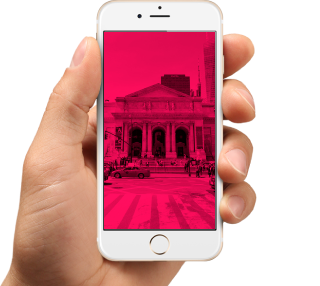
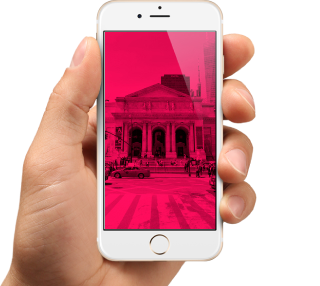
Адаптивная графика гл страницы

Changed region(s): [[0.5, 0.1119, 0.6875, 0.3916]]

diff --git a/source/index.html b/source/index.html
@@ -136,7 +136,7 @@
                 <p class="info__description">
                   Сделайте снимок и украсьте его
                   смайликом или текстовой подписью,
-                  чтобы усилить эффект
+                  чтобы усилить&nbsp;эффект
                 </p>
               </li>
               <li class="info__item">
@@ -151,9 +151,18 @@
               </li>
             </ul>
             <div class="info__phones">
-              <img class="info__phone" src="img/iphone-screen-1.png" width="157" height="320" alt="Смартфон-чб">
-              <img class="info__phone" src="img/iphone-screen-2.png" width="157" height="320" alt="Смартфон-розовый">
-              <img class="info__phone--mobile" src="img/iphone-screen-3.png" width="157" height="320" alt="Смартфон-смайлик">
+              <picture>
+                <source>
+                <img class="info__phone" src="img/iphone-screen-1-desktop.png" srcset="img/iphone-screen-1-desktop@2x.png 2x" width="186" height="382" alt="Смартфон-чб">
+              </picture>
+              <picture>
+                <img class="info__phone" src="img/iphone-screen-2-desktop.png" srcset="img/iphone-screen-2-desktop@2x.png 2x" width="186" height="382" alt="Смартфон-розовый">
+              </picture>
+              <picture>
+                <source media="(min-width: 960px)" srcset="img/iphone-screen-3-desktop.png 1x, img/iphone-screen-3-desktop@2x.png 2x">
+                <source media="(min-width: 660px)" srcset="img/iphone-screen-3-tablet.png 1x, img/iphone-screen-3-tablet@2x.png 2x">
+                <img class="info__phone--last" src="img/iphone-screen-3.png" srcset="img/iphone-screen-3@2x.png 2x" width="157" height="320" alt="Смартфон-смайлик">
+              </picture>
             </div>
           </div>
         </div>
@@ -162,7 +171,10 @@
       <section class="effect">
         <h2 class="visually-hidden">Эффект приложения</h2>
         <div class="effect__wrapper">
-          <img src="img/24timer.png" width="238" height="276" alt="24 часа">
+          <picture>
+            <source media="(min-width: 960px)" srcset="img/24timer-desktop.png 1x, img/timer24-desktop@2x.png 2x">
+            <img class="effect__timer" src="img/24timer.png" srcset="img/24timer@2x.png 2x" width="238" height="276" alt="24 часа">
+          </picture>
           <div class="effect__fact">
             <h3 class="effect__title">
               Эффект на 24 часа
@@ -399,9 +411,9 @@
       </section>
 
       <div class="map">
-        <img class="map-mobile" src="img/map-mobile.jpg" width="320" height="200" alt="Карта">
-        <img class="map-tablet" src="img/map-tablet.jpg" width="660" height="374" alt="Карта">
-        <img class="map-desktop" src="img/map-desktop.jpg" width="1200" height="502" alt="Карта">
+        <img class="map-mobile" src="img/map-mobile.jpg" srcset="img/map-mobile@2x.jpg 2x" width="320" height="200" alt="Карта">
+        <img class="map-tablet" src="img/map-tablet.jpg" srcset="img/map-tablet@2x.jpg 2x" width="660" height="374" alt="Карта">
+        <img class="map-desktop" src="img/map-desktop.jpg" srcset="img/map-desktop@2x.jpg 2x" width="1200" height="502" alt="Карта">
       </div>
 
     </main>
@@ -409,13 +421,25 @@
     <footer class="footer">
       <div class="footer__wrapper">
         <div class="footer__logo">
-          <svg width="145" height="40" viewBox="0 0 145 40" fill="none" xmlns="http://www.w3.org/2000/svg">
-              <path d="M71.005 18.5486C71.0049 18.2125 71.1358 17.8898 71.3697 17.6494C71.6037 17.409 71.922 17.2701 72.2568 17.2623H79.39C84.4469 17.2623 87.7751 19.9645 87.7751 24.3918V24.4516C87.7751 29.2977 83.7415 31.8105 78.9727 31.8105H73.5384V38.611C73.5539 38.7874 73.5328 38.9651 73.4762 39.1329C73.4196 39.3006 73.3289 39.4547 73.2097 39.5854C73.0906 39.716 72.9457 39.8204 72.7842 39.8918C72.6227 39.9631 72.4481 40 72.2717 40C72.0952 40 71.9207 39.9631 71.7592 39.8918C71.5977 39.8204 71.4527 39.716 71.3336 39.5854C71.2145 39.4547 71.1237 39.3006 71.0671 39.1329C71.0106 38.9651 70.9894 38.7874 71.005 38.611V18.5486ZM79.0721 29.5171C82.7778 29.5171 85.2119 27.5228 85.2119 24.5314V24.4716C85.2119 21.2608 82.8175 19.5956 79.2509 19.5956H73.588V29.4772L79.0721 29.5171Z" fill="#283645"/>
-              <path d="M92.5935 18.389C92.5779 18.2126 92.5991 18.0349 92.6556 17.8671C92.7122 17.6994 92.803 17.5452 92.9221 17.4146C93.0412 17.2839 93.1862 17.1796 93.3477 17.1082C93.5092 17.0369 93.6837 17 93.8602 17C94.0366 17 94.2112 17.0369 94.3727 17.1082C94.5342 17.1796 94.6791 17.2839 94.7982 17.4146C94.9174 17.5452 95.0081 17.6994 95.0647 17.8671C95.1213 18.0349 95.1425 18.2126 95.1269 18.389V38.611C95.1425 38.7874 95.1213 38.9651 95.0647 39.1329C95.0081 39.3006 94.9174 39.4548 94.7982 39.5854C94.6791 39.7161 94.5342 39.8204 94.3727 39.8918C94.2112 39.9631 94.0366 40 93.8602 40C93.6837 40 93.5092 39.9631 93.3477 39.8918C93.1862 39.8204 93.0412 39.7161 92.9221 39.5854C92.803 39.4548 92.7122 39.3006 92.6556 39.1329C92.5991 38.9651 92.5779 38.7874 92.5935 38.611V18.389Z" fill="#283645"/>
-              <path d="M101.674 18.419C101.682 18.0891 101.816 17.775 102.05 17.5426C102.283 17.3102 102.597 17.1776 102.926 17.1725H103.273C103.532 17.1778 103.784 17.2482 104.008 17.3771C104.232 17.5061 104.42 17.6894 104.555 17.9104L118.156 35.3104V18.3591C118.156 18.0312 118.286 17.7167 118.517 17.4848C118.748 17.2529 119.061 17.1227 119.388 17.1227C119.715 17.1227 120.028 17.2529 120.259 17.4848C120.49 17.7167 120.62 18.0312 120.62 18.3591V38.6508C120.625 38.8051 120.599 38.9589 120.544 39.1028C120.488 39.2467 120.403 39.3777 120.296 39.4878C120.188 39.5979 120.059 39.6848 119.916 39.7432C119.774 39.8016 119.621 39.8303 119.467 39.8275H119.338C119.074 39.8092 118.818 39.7294 118.591 39.5944C118.363 39.4593 118.17 39.2728 118.027 39.0497L104.118 21.2408V38.6508C104.116 38.9722 103.991 39.2805 103.769 39.5124C103.547 39.7442 103.246 39.882 102.926 39.8973C102.601 39.892 102.291 39.7581 102.064 39.5246C101.837 39.2911 101.711 38.9771 101.714 38.6508V18.419H101.674Z" fill="#283645"/>
-              <path d="M126.938 18.389C126.923 18.2126 126.944 18.0349 127.001 17.8671C127.057 17.6994 127.148 17.5452 127.267 17.4146C127.386 17.2839 127.531 17.1796 127.693 17.1082C127.854 17.0369 128.029 17 128.205 17C128.382 17 128.556 17.0369 128.718 17.1082C128.879 17.1796 129.024 17.2839 129.143 17.4146C129.262 17.5452 129.353 17.6994 129.41 17.8671C129.466 18.0349 129.487 18.2126 129.472 18.389V30.6837L142.228 17.5514C142.49 17.2797 142.845 17.1191 143.222 17.1027C143.547 17.1155 143.855 17.2528 144.082 17.4865C144.309 17.7202 144.439 18.0325 144.444 18.3591C144.437 18.529 144.396 18.6957 144.325 18.8498C144.253 19.0038 144.152 19.1421 144.026 19.2565L136.078 27.1539L144.652 37.6836C144.876 37.9441 145 38.2768 145 38.6209C144.996 38.7933 144.958 38.9633 144.889 39.121C144.819 39.2786 144.719 39.4209 144.594 39.5395C144.47 39.6582 144.323 39.7509 144.162 39.8123C144.002 39.8737 143.831 39.9026 143.659 39.8973C143.459 39.8891 143.264 39.8322 143.091 39.7314C142.918 39.6306 142.772 39.4891 142.665 39.3189L134.3 28.859L129.472 33.7051V38.591C129.472 38.7573 129.439 38.922 129.376 39.0756C129.312 39.2293 129.219 39.3689 129.102 39.4865C128.985 39.6041 128.846 39.6973 128.693 39.761C128.54 39.8246 128.376 39.8574 128.21 39.8574C128.044 39.8574 127.88 39.8246 127.727 39.761C127.574 39.6973 127.435 39.6041 127.318 39.4865C127.201 39.3689 127.108 39.2293 127.044 39.0756C126.981 38.922 126.948 38.7573 126.948 38.591V18.389H126.938Z" fill="#283645"/>
-              <path fill-rule="evenodd" clip-rule="evenodd" d="M53.8917 6.58616L58.9302 27.7312C59.0013 27.9491 59.0184 28.1815 58.98 28.4078C58.9417 28.6341 58.849 28.8472 58.7102 29.0284C58.5715 29.2096 58.3909 29.3532 58.1845 29.4465C57.978 29.5398 57.7522 29.58 57.5268 29.5635H53.5201C52.8298 35.3747 47.9494 39.8784 42.0315 39.8784C36.1136 39.8784 31.2332 35.3747 30.543 29.5635H28.5778C27.8869 35.442 22.9527 40 16.9685 40C10.9742 40 6.0335 35.4266 5.35571 29.5337H1.45014C1.22961 29.5445 1.00974 29.5014 0.808914 29.4082C0.608085 29.315 0.432119 29.1743 0.295711 28.9979C0.159304 28.8214 0.0664152 28.6144 0.0248022 28.3941C-0.0168108 28.1737 -0.00593994 27.9464 0.0565069 27.7312L5.10477 6.58616C5.45562 4.25872 7.63865 0 13.4861 0C13.8738 0 14.2456 0.156518 14.5197 0.435122C14.7939 0.713727 14.9479 1.0916 14.9479 1.4856C14.9479 1.87961 14.7939 2.25748 14.5197 2.53608C14.2456 2.81468 13.8738 2.9712 13.4861 2.9712C8.7789 2.9712 8.04797 6.6654 7.9895 7.07146L3.3408 26.6022H5.37467C6.12089 20.7847 11.0272 16.2918 16.9685 16.2918C22.9066 16.2918 27.8107 20.7798 28.5611 26.5926L30.5587 26.6017C31.3043 20.8518 36.1567 16.4134 42.0315 16.4134C47.9178 16.4134 52.7776 20.8691 53.5086 26.6353V26.5824H55.6459L51.007 7.07146C50.9387 6.6654 50.237 2.9712 45.5104 2.9712C45.1227 2.9712 44.7509 2.81468 44.4767 2.53608C44.2026 2.25748 44.0485 1.87961 44.0485 1.4856C44.0485 1.0916 44.2026 0.713727 44.4767 0.435122C44.7509 0.156518 45.1227 0 45.5104 0C51.3578 0 53.5408 4.25872 53.8917 6.58616ZM25.6722 29.5635C25.7448 29.1018 25.7825 28.6283 25.7825 28.1459C25.7825 27.6164 25.7371 27.0977 25.65 26.5935C24.9252 22.3982 21.3141 19.2097 16.9685 19.2097C12.6203 19.2097 9.00753 22.402 8.28571 26.601C8.19945 27.1028 8.15447 27.619 8.15447 28.1459C8.15447 28.6205 8.19096 29.0864 8.26125 29.541C8.92191 33.8136 12.5687 37.0821 16.9685 37.0821C21.3605 37.0821 25.0023 33.8251 25.6722 29.5635ZM50.6138 29.5635C50.6874 29.102 50.7256 28.6285 50.7256 28.1459C50.7256 23.2777 46.8331 19.3313 42.0315 19.3313C37.2299 19.3313 33.3374 23.2777 33.3374 28.1459C33.3374 28.6285 33.3756 29.102 33.4492 29.5635C34.118 33.7577 37.7058 36.9605 42.0315 36.9605C46.3572 36.9605 49.945 33.7577 50.6138 29.5635Z" fill="#D22856"/>
-            </svg>
+          <svg class="footer__logo--non-desktop" width="145" height="40" viewBox="0 0 145 40" fill="none" xmlns="http://www.w3.org/2000/svg">
+            <path d="M71.005 18.5486C71.0049 18.2125 71.1358 17.8898 71.3697 17.6494C71.6037 17.409 71.922 17.2701 72.2568 17.2623H79.39C84.4469 17.2623 87.7751 19.9645 87.7751 24.3918V24.4516C87.7751 29.2977 83.7415 31.8105 78.9727 31.8105H73.5384V38.611C73.5539 38.7874 73.5328 38.9651 73.4762 39.1329C73.4196 39.3006 73.3289 39.4547 73.2097 39.5854C73.0906 39.716 72.9457 39.8204 72.7842 39.8918C72.6227 39.9631 72.4481 40 72.2717 40C72.0952 40 71.9207 39.9631 71.7592 39.8918C71.5977 39.8204 71.4527 39.716 71.3336 39.5854C71.2145 39.4547 71.1237 39.3006 71.0671 39.1329C71.0106 38.9651 70.9894 38.7874 71.005 38.611V18.5486ZM79.0721 29.5171C82.7778 29.5171 85.2119 27.5228 85.2119 24.5314V24.4716C85.2119 21.2608 82.8175 19.5956 79.2509 19.5956H73.588V29.4772L79.0721 29.5171Z" fill="#283645"/>
+            <path d="M92.5935 18.389C92.5779 18.2126 92.5991 18.0349 92.6556 17.8671C92.7122 17.6994 92.803 17.5452 92.9221 17.4146C93.0412 17.2839 93.1862 17.1796 93.3477 17.1082C93.5092 17.0369 93.6837 17 93.8602 17C94.0366 17 94.2112 17.0369 94.3727 17.1082C94.5342 17.1796 94.6791 17.2839 94.7982 17.4146C94.9174 17.5452 95.0081 17.6994 95.0647 17.8671C95.1213 18.0349 95.1425 18.2126 95.1269 18.389V38.611C95.1425 38.7874 95.1213 38.9651 95.0647 39.1329C95.0081 39.3006 94.9174 39.4548 94.7982 39.5854C94.6791 39.7161 94.5342 39.8204 94.3727 39.8918C94.2112 39.9631 94.0366 40 93.8602 40C93.6837 40 93.5092 39.9631 93.3477 39.8918C93.1862 39.8204 93.0412 39.7161 92.9221 39.5854C92.803 39.4548 92.7122 39.3006 92.6556 39.1329C92.5991 38.9651 92.5779 38.7874 92.5935 38.611V18.389Z" fill="#283645"/>
+            <path d="M101.674 18.419C101.682 18.0891 101.816 17.775 102.05 17.5426C102.283 17.3102 102.597 17.1776 102.926 17.1725H103.273C103.532 17.1778 103.784 17.2482 104.008 17.3771C104.232 17.5061 104.42 17.6894 104.555 17.9104L118.156 35.3104V18.3591C118.156 18.0312 118.286 17.7167 118.517 17.4848C118.748 17.2529 119.061 17.1227 119.388 17.1227C119.715 17.1227 120.028 17.2529 120.259 17.4848C120.49 17.7167 120.62 18.0312 120.62 18.3591V38.6508C120.625 38.8051 120.599 38.9589 120.544 39.1028C120.488 39.2467 120.403 39.3777 120.296 39.4878C120.188 39.5979 120.059 39.6848 119.916 39.7432C119.774 39.8016 119.621 39.8303 119.467 39.8275H119.338C119.074 39.8092 118.818 39.7294 118.591 39.5944C118.363 39.4593 118.17 39.2728 118.027 39.0497L104.118 21.2408V38.6508C104.116 38.9722 103.991 39.2805 103.769 39.5124C103.547 39.7442 103.246 39.882 102.926 39.8973C102.601 39.892 102.291 39.7581 102.064 39.5246C101.837 39.2911 101.711 38.9771 101.714 38.6508V18.419H101.674Z" fill="#283645"/>
+            <path d="M126.938 18.389C126.923 18.2126 126.944 18.0349 127.001 17.8671C127.057 17.6994 127.148 17.5452 127.267 17.4146C127.386 17.2839 127.531 17.1796 127.693 17.1082C127.854 17.0369 128.029 17 128.205 17C128.382 17 128.556 17.0369 128.718 17.1082C128.879 17.1796 129.024 17.2839 129.143 17.4146C129.262 17.5452 129.353 17.6994 129.41 17.8671C129.466 18.0349 129.487 18.2126 129.472 18.389V30.6837L142.228 17.5514C142.49 17.2797 142.845 17.1191 143.222 17.1027C143.547 17.1155 143.855 17.2528 144.082 17.4865C144.309 17.7202 144.439 18.0325 144.444 18.3591C144.437 18.529 144.396 18.6957 144.325 18.8498C144.253 19.0038 144.152 19.1421 144.026 19.2565L136.078 27.1539L144.652 37.6836C144.876 37.9441 145 38.2768 145 38.6209C144.996 38.7933 144.958 38.9633 144.889 39.121C144.819 39.2786 144.719 39.4209 144.594 39.5395C144.47 39.6582 144.323 39.7509 144.162 39.8123C144.002 39.8737 143.831 39.9026 143.659 39.8973C143.459 39.8891 143.264 39.8322 143.091 39.7314C142.918 39.6306 142.772 39.4891 142.665 39.3189L134.3 28.859L129.472 33.7051V38.591C129.472 38.7573 129.439 38.922 129.376 39.0756C129.312 39.2293 129.219 39.3689 129.102 39.4865C128.985 39.6041 128.846 39.6973 128.693 39.761C128.54 39.8246 128.376 39.8574 128.21 39.8574C128.044 39.8574 127.88 39.8246 127.727 39.761C127.574 39.6973 127.435 39.6041 127.318 39.4865C127.201 39.3689 127.108 39.2293 127.044 39.0756C126.981 38.922 126.948 38.7573 126.948 38.591V18.389H126.938Z" fill="#283645"/>
+            <path fill-rule="evenodd" clip-rule="evenodd" d="M53.8917 6.58616L58.9302 27.7312C59.0013 27.9491 59.0184 28.1815 58.98 28.4078C58.9417 28.6341 58.849 28.8472 58.7102 29.0284C58.5715 29.2096 58.3909 29.3532 58.1845 29.4465C57.978 29.5398 57.7522 29.58 57.5268 29.5635H53.5201C52.8298 35.3747 47.9494 39.8784 42.0315 39.8784C36.1136 39.8784 31.2332 35.3747 30.543 29.5635H28.5778C27.8869 35.442 22.9527 40 16.9685 40C10.9742 40 6.0335 35.4266 5.35571 29.5337H1.45014C1.22961 29.5445 1.00974 29.5014 0.808914 29.4082C0.608085 29.315 0.432119 29.1743 0.295711 28.9979C0.159304 28.8214 0.0664152 28.6144 0.0248022 28.3941C-0.0168108 28.1737 -0.00593994 27.9464 0.0565069 27.7312L5.10477 6.58616C5.45562 4.25872 7.63865 0 13.4861 0C13.8738 0 14.2456 0.156518 14.5197 0.435122C14.7939 0.713727 14.9479 1.0916 14.9479 1.4856C14.9479 1.87961 14.7939 2.25748 14.5197 2.53608C14.2456 2.81468 13.8738 2.9712 13.4861 2.9712C8.7789 2.9712 8.04797 6.6654 7.9895 7.07146L3.3408 26.6022H5.37467C6.12089 20.7847 11.0272 16.2918 16.9685 16.2918C22.9066 16.2918 27.8107 20.7798 28.5611 26.5926L30.5587 26.6017C31.3043 20.8518 36.1567 16.4134 42.0315 16.4134C47.9178 16.4134 52.7776 20.8691 53.5086 26.6353V26.5824H55.6459L51.007 7.07146C50.9387 6.6654 50.237 2.9712 45.5104 2.9712C45.1227 2.9712 44.7509 2.81468 44.4767 2.53608C44.2026 2.25748 44.0485 1.87961 44.0485 1.4856C44.0485 1.0916 44.2026 0.713727 44.4767 0.435122C44.7509 0.156518 45.1227 0 45.5104 0C51.3578 0 53.5408 4.25872 53.8917 6.58616ZM25.6722 29.5635C25.7448 29.1018 25.7825 28.6283 25.7825 28.1459C25.7825 27.6164 25.7371 27.0977 25.65 26.5935C24.9252 22.3982 21.3141 19.2097 16.9685 19.2097C12.6203 19.2097 9.00753 22.402 8.28571 26.601C8.19945 27.1028 8.15447 27.619 8.15447 28.1459C8.15447 28.6205 8.19096 29.0864 8.26125 29.541C8.92191 33.8136 12.5687 37.0821 16.9685 37.0821C21.3605 37.0821 25.0023 33.8251 25.6722 29.5635ZM50.6138 29.5635C50.6874 29.102 50.7256 28.6285 50.7256 28.1459C50.7256 23.2777 46.8331 19.3313 42.0315 19.3313C37.2299 19.3313 33.3374 23.2777 33.3374 28.1459C33.3374 28.6285 33.3756 29.102 33.4492 29.5635C34.118 33.7577 37.7058 36.9605 42.0315 36.9605C46.3572 36.9605 49.945 33.7577 50.6138 29.5635Z" fill="#D22856"/>
+          </svg>
+          <svg class="footer__logo--desktop" width="147" height="40" viewBox="0 0 147 40" fill="none" xmlns="http://www.w3.org/2000/svg">
+            <path d="M72.1933 18.4251C72.1932 18.0924 72.3255 17.7728 72.562 17.5348C72.7985 17.2967 73.1204 17.1591 73.4588 17.1514H80.6703C85.7826 17.1514 89.1473 19.8272 89.1473 24.2113V24.2705C89.1473 29.0693 85.0695 31.5575 80.2484 31.5575H74.7544V38.2916C74.7702 38.4663 74.7488 38.6423 74.6916 38.8084C74.6344 38.9745 74.5426 39.1271 74.4222 39.2565C74.3017 39.3859 74.1552 39.4892 73.992 39.5599C73.8287 39.6306 73.6522 39.6671 73.4738 39.6671C73.2954 39.6671 73.119 39.6306 72.9557 39.5599C72.7925 39.4892 72.6459 39.3859 72.5255 39.2565C72.405 39.1271 72.3133 38.9745 72.2561 38.8084C72.1989 38.6423 72.1775 38.4663 72.1933 38.2916V18.4251ZM80.3489 29.2865C84.0952 29.2865 86.556 27.3117 86.556 24.3495V24.2903C86.556 21.1108 84.1354 19.4619 80.5297 19.4619H74.8047V29.247L80.3489 29.2865Z" fill="#283645"/>
+            <path d="M94.0186 18.2671C94.0028 18.0924 94.0242 17.9164 94.0814 17.7502C94.1386 17.5841 94.2304 17.4315 94.3508 17.3021C94.4713 17.1728 94.6178 17.0695 94.781 16.9988C94.9443 16.9281 95.1208 16.8916 95.2992 16.8916C95.4776 16.8916 95.654 16.9281 95.8173 16.9988C95.9806 17.0695 96.1271 17.1728 96.2475 17.3021C96.368 17.4315 96.4597 17.5841 96.5169 17.7502C96.5741 17.9164 96.5955 18.0924 96.5798 18.2671V38.2915C96.5955 38.4662 96.5741 38.6422 96.5169 38.8084C96.4597 38.9745 96.368 39.1271 96.2475 39.2565C96.1271 39.3858 95.9806 39.4891 95.8173 39.5598C95.654 39.6305 95.4776 39.667 95.2992 39.667C95.1208 39.667 94.9443 39.6305 94.781 39.5598C94.6178 39.4891 94.4713 39.3858 94.3508 39.2565C94.2304 39.1271 94.1386 38.9745 94.0814 38.8084C94.0242 38.6422 94.0028 38.4662 94.0186 38.2915V18.2671Z" fill="#283645"/>
+            <path d="M103.199 18.2963C103.206 17.9697 103.343 17.6587 103.579 17.4285C103.815 17.1984 104.132 17.0671 104.464 17.0621H104.816C105.077 17.0673 105.332 17.137 105.559 17.2647C105.785 17.3923 105.975 17.5739 106.111 17.7927L119.862 35.0229V18.2371C119.862 17.9123 119.993 17.6009 120.226 17.3713C120.46 17.1417 120.777 17.0127 121.107 17.0127C121.437 17.0127 121.754 17.1417 121.988 17.3713C122.221 17.6009 122.352 17.9123 122.352 18.2371V38.3306C122.358 38.4834 122.332 38.6357 122.275 38.7782C122.219 38.9207 122.134 39.0504 122.025 39.1594C121.916 39.2685 121.785 39.3545 121.641 39.4123C121.497 39.4702 121.343 39.4986 121.187 39.4958H121.057C120.79 39.4777 120.531 39.3987 120.301 39.265C120.071 39.1313 119.876 38.9466 119.731 38.7256L105.67 21.0907V38.3306C105.667 38.6489 105.541 38.9542 105.317 39.1838C105.093 39.4134 104.788 39.5498 104.464 39.5649C104.136 39.5597 103.823 39.4271 103.593 39.1959C103.363 38.9647 103.236 38.6537 103.239 38.3306V18.2963H103.199Z" fill="#283645"/>
+            <path d="M128.74 18.2671C128.724 18.0924 128.746 17.9164 128.803 17.7502C128.86 17.5841 128.952 17.4315 129.072 17.3021C129.193 17.1728 129.339 17.0695 129.503 16.9988C129.666 16.9281 129.842 16.8916 130.021 16.8916C130.199 16.8916 130.376 16.9281 130.539 16.9988C130.702 17.0695 130.849 17.1728 130.969 17.3021C131.09 17.4315 131.181 17.5841 131.239 17.7502C131.296 17.9164 131.317 18.0924 131.301 18.2671V30.4417L144.198 17.4377C144.462 17.1686 144.822 17.0095 145.202 16.9933C145.531 17.0059 145.842 17.1419 146.072 17.3734C146.302 17.6048 146.433 17.9141 146.438 18.2375C146.43 18.4056 146.39 18.5708 146.317 18.7233C146.245 18.8758 146.142 19.0127 146.016 19.1261L137.981 26.9463L146.648 37.3733C146.875 37.6312 147 37.9606 147 38.3014C146.996 38.4721 146.958 38.6404 146.887 38.7965C146.817 38.9527 146.716 39.0936 146.59 39.2111C146.464 39.3286 146.315 39.4203 146.153 39.4811C145.991 39.5419 145.818 39.5705 145.644 39.5653C145.441 39.5598 145.243 39.5045 145.068 39.4045C144.892 39.3044 144.745 39.1629 144.64 38.9926L136.193 28.6348L131.301 33.4335V38.2718C131.301 38.4365 131.268 38.5995 131.204 38.7517C131.14 38.9038 131.046 39.0421 130.928 39.1585C130.809 39.2749 130.669 39.3673 130.514 39.4303C130.359 39.4933 130.193 39.5258 130.026 39.5258C129.858 39.5258 129.692 39.4933 129.538 39.4303C129.383 39.3673 129.242 39.2749 129.124 39.1585C129.005 39.0421 128.911 38.9038 128.847 38.7517C128.783 38.5995 128.75 38.4365 128.75 38.2718V18.2671H128.74Z" fill="#283645"/>
+            <path d="M98.9401 9.74577C97.9749 9.74578 97.0491 9.36951 96.3656 8.69946C95.6822 8.02942 95.2969 7.12028 95.2942 6.17139C95.2942 7.11937 94.9111 8.02853 94.2293 8.69886C93.5474 9.36919 92.6226 9.74577 91.6583 9.74577C92.6235 9.74839 93.5483 10.1272 94.2299 10.7991C94.9115 11.471 95.2942 12.3811 95.2942 13.33C95.2969 12.3802 95.6818 11.4701 96.365 10.7985C97.0482 10.1268 97.974 9.74838 98.9401 9.74577Z" fill="#D22856"/>
+            <path d="M43.287 19.0665C43.5381 19.0665 43.7792 19.0665 44.0202 19.0665C43.8019 18.6987 43.4897 18.3932 43.1145 18.1802C42.7393 17.9672 42.3141 17.8541 41.8809 17.852C41.4627 17.8517 41.055 17.7231 40.7147 17.4842C40.3745 17.2452 40.1185 16.9078 39.9826 16.519C39.2588 16.7243 38.5561 16.9954 37.8834 17.3287H38.0743C38.607 17.3287 39.118 17.5368 39.4947 17.9071C39.8714 18.2775 40.083 18.7798 40.083 19.3035C40.088 19.3989 40.088 19.4945 40.083 19.5899C41.109 19.2223 42.1953 19.0449 43.287 19.0665Z" fill="#D22856"/>
+            <path d="M60.7332 27.6472L55.5406 6.56621C55.179 4.24582 52.9291 0 46.9028 0C46.5033 0 46.1201 0.156044 45.8375 0.433804C45.555 0.711564 45.3962 1.08829 45.3962 1.4811C45.3962 1.87391 45.555 2.25063 45.8375 2.52839C46.1201 2.80615 46.5033 2.9622 46.9028 2.9622C51.7741 2.9622 52.4973 6.6452 52.5676 7.05003L57.3484 26.5018H55.2493C55.0321 24.805 54.4439 23.1744 53.525 21.7222C52.6061 20.2701 51.3783 19.0307 49.926 18.0892C49.4712 18.2774 49.0829 18.5932 48.8096 18.9971C48.5363 19.401 48.3901 19.8751 48.3893 20.3602C48.3948 20.4457 48.3948 20.5314 48.3893 20.6169C49.6107 21.4404 50.6131 22.5401 51.3122 23.8236C52.0113 25.1072 52.3867 26.537 52.4069 27.9928C52.4008 28.4894 52.3538 28.9847 52.2663 29.4739C51.9375 31.5714 50.8559 33.484 49.2173 34.8657C47.5786 36.2474 45.4911 37.007 43.3322 37.007C41.1734 37.007 39.0859 36.2474 37.4472 34.8657C35.8086 33.484 34.727 31.5714 34.3982 29.4739C34.3107 28.9847 34.2636 28.4894 34.2576 27.9928C34.2733 26.6229 34.5993 25.2737 35.2118 24.0432C34.7037 24.0081 34.2282 23.7847 33.8814 23.4181C33.5346 23.0515 33.3424 22.569 33.3436 22.0684C33.3453 21.889 33.277 21.7159 33.1528 21.5846C32.181 23.0752 31.5662 24.7633 31.3549 26.5215H29.4868C29.1663 23.6174 27.7658 20.9319 25.5542 18.9809C23.3427 17.0298 20.4759 15.9507 17.5044 15.9507C14.5329 15.9507 11.6662 17.0298 9.45463 18.9809C7.24307 20.9319 5.84259 23.6174 5.5221 26.5215H3.44302L8.23394 7.05003C8.29421 6.6452 9.0475 2.9622 13.8987 2.9622C14.2983 2.9622 14.6815 2.80615 14.964 2.52839C15.2465 2.25063 15.4053 1.87391 15.4053 1.4811C15.4053 1.08829 15.2465 0.711564 14.964 0.433804C14.6815 0.156044 14.2983 0 13.8987 0C7.87236 0 5.62254 4.24582 5.26096 6.56621L0.0582358 27.6472C-0.00612168 27.8617 -0.0173251 28.0883 0.0255611 28.308C0.0684473 28.5277 0.164178 28.7341 0.304759 28.91C0.44534 29.0859 0.62669 29.2262 0.833664 29.3191C1.04064 29.4121 1.26723 29.455 1.49451 29.4443H5.51206C5.59378 30.055 5.72135 30.659 5.89372 31.2512C5.95717 31.1429 5.99172 31.0206 5.99416 30.8957C5.99416 30.372 6.2058 29.8697 6.58252 29.4993C6.95923 29.129 7.47017 28.9209 8.00293 28.9209C8.16525 28.9248 8.32675 28.9446 8.48504 28.9802C8.44252 28.6526 8.41904 28.323 8.41473 27.9928C8.41742 27.4964 8.46109 27.0011 8.5453 26.5117C8.86708 24.4074 9.94627 22.4864 11.5867 21.0981C13.2271 19.7097 15.3198 18.9461 17.4843 18.9461C19.6489 18.9461 21.7416 19.7097 23.382 21.0981C25.0224 22.4864 26.1016 24.4074 26.4234 26.5117C26.5076 27.0011 26.5513 27.4964 26.554 27.9928C26.5638 29.6507 26.1017 31.2782 25.2199 32.6915C24.3381 34.1047 23.0717 35.2472 21.5639 35.9899C20.0561 36.7326 18.3671 37.0458 16.6877 36.8942C15.0083 36.7425 13.4056 36.132 12.0607 35.1317C11.6982 35.4412 11.235 35.6128 10.755 35.6155C10.5569 35.6181 10.3679 35.6973 10.2288 35.8359C10.0897 35.9745 10.0117 36.1613 10.0117 36.356C10.009 36.6321 9.94739 36.9046 9.83092 37.1558C11.9797 38.9066 14.6835 39.8636 17.4743 39.8613C20.4223 39.8738 23.2728 38.8236 25.4864 36.9095C27.7 34.9953 29.1232 32.35 29.4868 29.4739H31.3147C31.6456 32.3691 33.0499 35.0431 35.2593 36.9848C37.4688 38.9266 40.3285 40 43.2921 40C46.2557 40 49.1154 38.9266 51.3248 36.9848C53.5343 35.0431 54.9385 32.3691 55.2694 29.4739H59.2869C59.5191 29.4904 59.7519 29.4503 59.9647 29.3573C60.1774 29.2642 60.3635 29.121 60.5065 28.9404C60.6495 28.7598 60.7451 28.5473 60.7846 28.3217C60.8241 28.0961 60.8065 27.8645 60.7332 27.6472Z" fill="#D22856"/>
+            <path d="M50.9203 15.9168C50.3273 15.9181 49.7398 15.8044 49.1915 15.5822C48.6432 15.36 48.1448 15.0336 47.725 14.6218C47.3052 14.21 46.9721 13.7208 46.7448 13.1823C46.5176 12.6437 46.4006 12.0664 46.4006 11.4834C46.3979 12.6601 45.9206 13.7878 45.0733 14.6189C44.2259 15.45 43.0778 15.9168 41.8809 15.9168C43.0788 15.9194 44.2268 16.3884 45.0739 17.2211C45.9209 18.0538 46.3979 19.1825 46.4006 20.3601C46.4006 19.1817 46.8768 18.0515 47.7244 17.2182C48.572 16.385 49.7216 15.9168 50.9203 15.9168Z" fill="#283645"/>
+            <path d="M38.0743 19.3828C37.3417 19.3828 36.6392 19.0967 36.1212 18.5875C35.6032 18.0783 35.3122 17.3876 35.3122 16.6675C35.3122 17.3859 35.0226 18.0751 34.5068 18.584C33.9909 19.093 33.291 19.3802 32.5602 19.3828C33.2901 19.3828 33.99 19.6679 34.5062 20.1752C35.0223 20.6826 35.3122 21.3708 35.3122 22.0883C35.3149 21.3699 35.607 20.6817 36.1247 20.1746C36.6424 19.6675 37.3435 19.3828 38.0743 19.3828Z" fill="#283645"/>
+            <path d="M10.785 33.6406C10.056 33.6354 9.35856 33.347 8.84491 32.8384C8.33126 32.3297 8.04302 31.642 8.04303 30.9253C8.04304 31.6437 7.75342 32.3329 7.2376 32.8419C6.72178 33.3508 6.02182 33.638 5.29102 33.6406C6.02182 33.6433 6.72178 33.9305 7.2376 34.4394C7.75342 34.9484 8.04304 35.6375 8.04303 36.356C8.04302 35.6392 8.33126 34.9516 8.84491 34.4429C9.35856 33.9342 10.056 33.6459 10.785 33.6406Z" fill="#283645"/>
+          </svg>
         </div>
         <div class="footer__socials socials">
           <ul class="socials__list">

diff --git a/source/less/blocks/info.less b/source/less/blocks/info.less
@@ -74,6 +74,9 @@
 
     @media (min-width: @tabletWidth) {
       min-width: 310px;
+      padding: 0;
+      padding-top: 75px;
+      padding-left: 42px;
       text-align: left;
     }
 
@@ -90,57 +93,70 @@
 
   &__title {
     width: 280px;
-    padding-bottom: 24px;
     text-align: center;
     margin: 0 auto;
+    margin-bottom: 24px;
     color: @black;
     font-size: @fontSizeBig;
     line-height: @lineHeightMoreSmall;
     font-weight: @fontWeightBold;
 
     @media (min-width: @tabletWidth) {
+      width: 310px;
       text-align: left;
+      margin-bottom: 14px;
     }
   }
 
   &__description {
     width: 280px;
-    padding-bottom: 43px;
     text-align: center;
     margin: 0 auto;
+    margin-bottom: 43px;
     color: @midnight;
     font-size: @fontSizeSmall;
     line-height: @lineHeightMoreSmall;
     font-weight: @fontWeightNormal;
 
     @media (min-width: @tabletWidth) {
+      width: 310px;
       text-align: left;
+      margin-bottom: 36px;
     }
+  }
+
+  &__phones {
+    height: 277px;
   }
 
   &__phone {
     display: none;
   }
 
-  &__phone--mobile {
+  &__phone--last {
     display: block;
     margin: 0 auto;
+    position: relative;
   }
 
   @media (min-width: @tabletWidth) {
     &__purpose {
       display: flex;
       flex-direction: row;
+      height: 481px;
+    }
+
+    &__phone--last {
+      display: block;
+      margin: 0;
+      width: 268px;
+      height: 547px;
     }
 
     &__phones {
       order: -1;
-      width: 320px;
-    }
-
-    &__phone--mobile {
-      display: block;
-      margin: 0;
+      width: 268px;
+      height: 481px;
     }
   }
 
@@ -148,10 +164,15 @@
     &__purpose {
       display: flex;
       flex-direction: column;
+      height: 570px;
+      position: relative;
+      top: 72px;
     }
 
     &__list {
       display: flex;
+      position: relative;
+      z-index: 6;
     }
 
     &__item {
@@ -159,11 +180,19 @@
       text-align: center;
     }
 
+    &__phone--last {
+      width: 186px;
+      height: 382px;
+    }
+
     &__phones {
       width: 100%;
+      height: 301px;
       display: flex;
       flex-direction: row;
       justify-content: space-around;
+      position: relative;
+      z-index: 3;
     }
 
     &__phone {

diff --git a/source/less/blocks/intro.less b/source/less/blocks/intro.less
@@ -6,6 +6,7 @@
   margin: 0 auto;
   min-width: 320px;
   width: 100%;
+  height: 667px;
 
   @media (min-width: @tabletWidth) {
     min-width: 660px;
@@ -15,6 +16,11 @@
     background-image: url("../../img/hand-phone-tablet.png"), url("../../img/back-tablet.jpg");
     background-repeat: no-repeat;
     background-position: right bottom, center;
+
+    @media (min-resolution: 2dppx) {
+      background-image: url("../../img/hand-phone-tablet@2x.png"), url("../../img/back-tablet@2x.jpg");
+      background-size: auto 545px, auto 729px;
+    }
   }
 
   @media (min-width: @desktopWidth) {
@@ -23,6 +29,11 @@
     background-image: url("../../img/hand-phone-desktop.png"), url("../../img/back-desktop.jpg");
     background-repeat: no-repeat;
     background-position: right bottom, center;
+
+    @media (min-resolution: 2dppx) {
+      background-image: url("../../img/hand-phone-desktop@2x.png"), url("../../img/back-desktop@2x.jpg");
+      background-size: auto 695px, auto 853px;
+    }
   }
 
   &__wrapper {
@@ -47,7 +58,15 @@
     background-repeat: no-repeat;
     background-size: auto, auto;
     background-position: bottom left, bottom center;
-    min-height: 396px;
+    min-height: 462px;
+    position: relative;
+    top: -66px;
+    z-index: 1;
+
+    @media (min-resolution: 2dppx) {
+      background-image: url("../../img/hand-phone-mobile@2x.png"), url("../../img/back-mobile@2x.jpg");
+      background-size: auto 286px, auto 462px;
+    }
 
     @media (min-width: @tabletWidth) {
       background-image: none;
@@ -65,7 +84,7 @@
 
   &__slogan {
     width: 280px;
-    padding-top: 29px;
+    padding-top: 95px;
     text-align: center;
     margin: 0 auto;
     font-size: @fontSizeHuge;
@@ -84,6 +103,8 @@
     display: flex;
     flex-direction: column;
     justify-content: flex-start;
+    position: relative;
+    top: -66px;
 
     @media (min-width: @tabletWidth) {
       position: relative;

diff --git a/source/less/blocks/effect.less b/source/less/blocks/effect.less
@@ -9,6 +9,8 @@
     padding: 0;
     padding-top: 54px;
     width: 100%;
+    position: relative;
+    z-index: 7;
 
     &__wrapper {
       display: flex;
@@ -45,6 +47,11 @@
     background-color: @greyBackground;
     width: 100%;
     padding-bottom: 67px;
+
+    &__timer {
+      width: 298px;
+      height: 345px;
+    }
 
     &__description {
       width: 534px;

diff --git a/source/less/blocks/footer.less b/source/less/blocks/footer.less
@@ -44,6 +44,20 @@
     @media (min-width: @tabletWidth) {
       margin: 0;
     }
+
+    @media (min-width: @desktopWidth) {
+      &--non-desktop {
+        display: none;
+      }
+    }
+
+    &--desktop {
+      display: none;
+
+      @media (min-width: @desktopWidth) {
+        display: block;
+      }
+    }
   }
 
   .socials {

diff --git a/source/less/blocks/reviews.less b/source/less/blocks/reviews.less
@@ -6,6 +6,8 @@
   min-width: 320px;
   width: 100%;
   padding-top: 50px;
+  position: relative;
+  z-index: 2;
 
   @media (min-width: @tabletWidth) {
     min-width: 660px;

diff --git a/source/less/blocks/header.less b/source/less/blocks/header.less
@@ -8,6 +8,8 @@
   margin: 0 auto;
   padding: 0;
   display: block;
+  position: relative;
+  z-index: 3;
 
   @media (min-width: @tabletWidth) {
     min-width: 660px;
